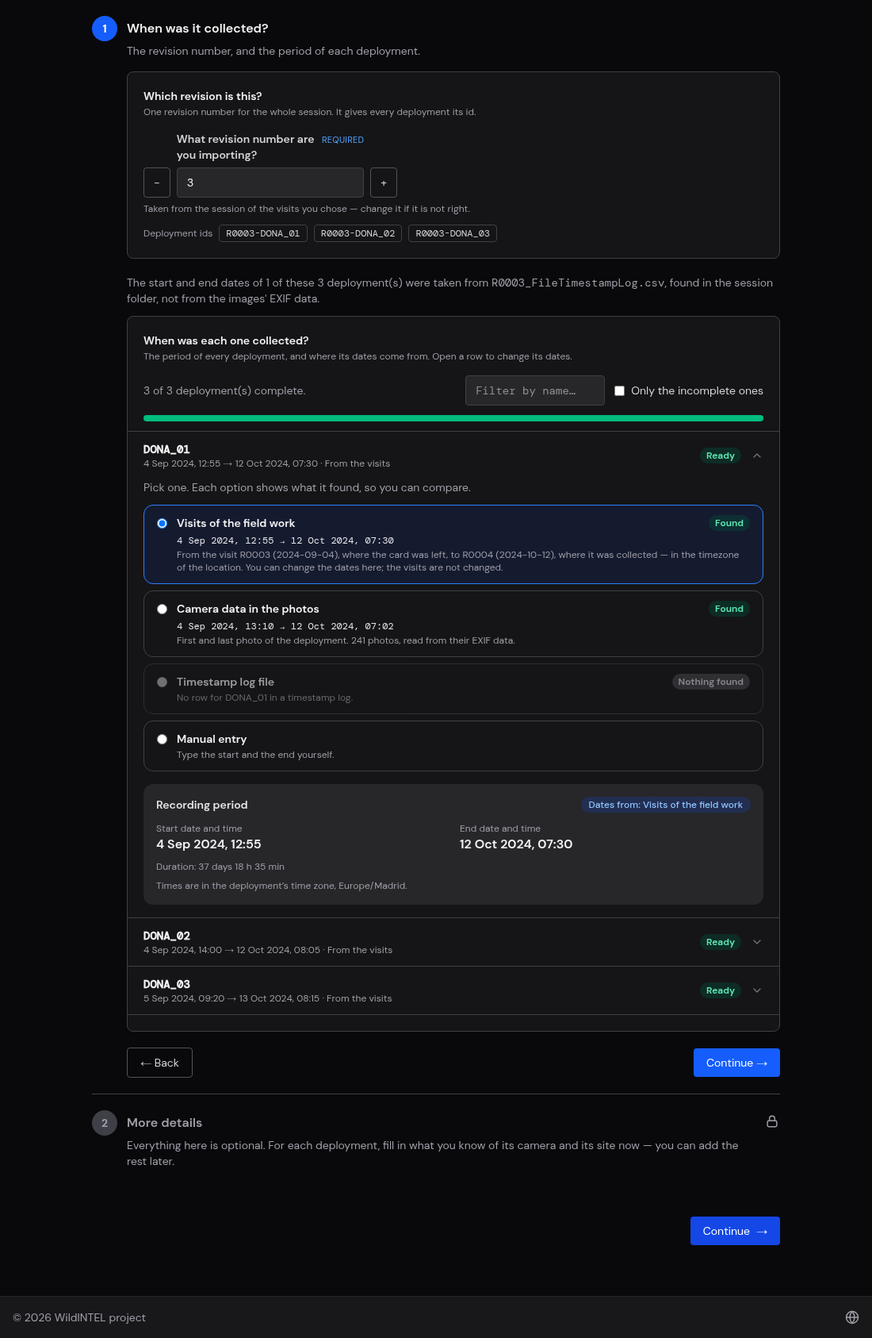
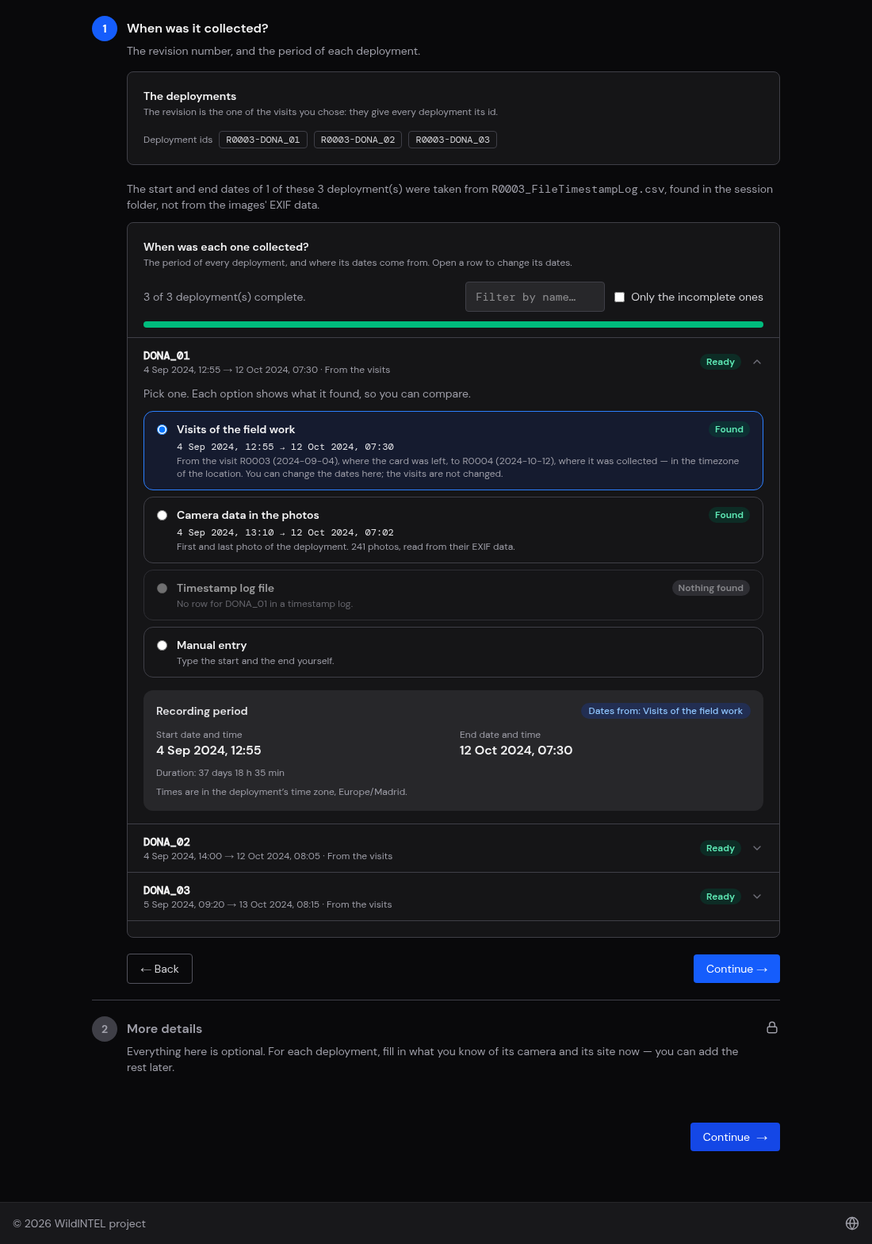
Import collection: redesigned around the visits — a revision, then one or several of its closed visits; one visit works as Import deployment (the folder is the deployment's), several as a collection; Import deployment is left as it was

diff --git a/frontend/src/pages/ImportSessionPage.tsx b/frontend/src/pages/ImportSessionPage.tsx
@@ -127,6 +127,8 @@ export default function ImportSessionPage({ onUpload, onOpenSettings, settingsOp
   const [closedVisits, setClosedVisits] = useState<ClosedVisit[] | null>(null)
   const [pickedVisits, setPickedVisits] = useState<Set<string>>(new Set())
   const [visitFilter, setVisitFilter] = useState('')
+  // The revision the visits are of, picked first: only its closed visits are offered. Ticking a visit locks the list to its revision as well (the others are disabled).
+  const [revisionPick, setRevisionPick] = useState<number | null>(null)
   // Where each deployment of visits has its camera, site and notes from, once picked: the visit's (the field sheet) before that.
   const [detailsPick, setDetailsPick] = useState<Record<string, 'visit' | 'previous' | 'manual'>>({})
   const [folderVisit, setFolderVisit] = useState<Record<string, string>>({})
@@ -203,6 +205,8 @@ export default function ImportSessionPage({ onUpload, onOpenSettings, settingsOp
   // With visits picked, the session is of them: each folder is a deployment of one, which tells where and when.
   const pickedList = (closedVisits ?? []).filter((c) => pickedVisits.has(visitKey(c)))
   const visitsMode = pickedList.length > 0
+  // One visit: the folder is the one of its deployment, with the images in it, as in Import deployment; several: a folder with one subfolder for each.
+  const singleVisit = pickedList.length === 1
   const visitOf = (name: string): ClosedVisit | undefined => pickedList.find((c) => visitKey(c) === folderVisit[name])
   const projectSdCards = sdCards.filter((c) => !c.research_project || c.research_project.toLowerCase() === projectId.toLowerCase())
   // The deployments' details are asked for once the research project is picked and the details sub-step is open.
@@ -275,6 +279,21 @@ export default function ImportSessionPage({ onUpload, onOpenSettings, settingsOp
     // eslint-disable-next-line react-hooks/exhaustive-deps
   }, [scan, pickedVisits, closedVisits])
 
+  // With one visit, the one folder is its deployment's, whatever it is called.
+  useEffect(() => {
+    if (!singleVisit || !scan || scan.deployments.length !== 1) return
+    const key = visitKey(pickedList[0])
+    setFolderVisit((current) => (current[scan.deployments[0].name] === key ? current : { [scan.deployments[0].name]: key }))
+    // eslint-disable-next-line react-hooks/exhaustive-deps
+  }, [singleVisit, scan, pickedVisits])
+  // A folder scanned for one visit is not the one scanned for several: it is scanned again when the number of visits goes from one to many or back.
+  const wasSingle = useRef(singleVisit)
+  useEffect(() => {
+    if (wasSingle.current !== singleVisit && scan) setScan(null)
+    wasSingle.current = singleVisit
+    // eslint-disable-next-line react-hooks/exhaustive-deps
+  }, [singleVisit])
+
   /** Links a folder to a visit (or none): what its details were is worked out again from it. */
   function linkFolder(name: string, key: string) {
     setFolderVisit((current) => {
@@ -289,6 +308,12 @@ export default function ImportSessionPage({ onUpload, onOpenSettings, settingsOp
 
   /** Ticks a visit of the session — all of one session, which is the revision: those of another are not offered then. */
   function toggleVisit(c: ClosedVisit) { tickVisits([c], !pickedVisits.has(visitKey(c))) }
+
+  /** Picks the revision the visits are of — or none, to see them all: the ticked visits are of another one, so they are let go. */
+  function pickRevision(revision: number | null) {
+    setRevisionPick(revision)
+    if (pickedVisits.size > 0) { setPickedVisits(new Set()); setDrafts({}); setRevisionFromVisits(false) }
+  }
 
   /** Ticks, or unticks, several visits at once. */
   function tickVisits(list: ClosedVisit[], ticked: boolean) {
@@ -401,7 +426,15 @@ export default function ImportSessionPage({ onUpload, onOpenSettings, settingsOp
   async function handleScan() {
     setScanning(true); setScanError(null); setScan(null)
     try {
-      const result = await api.scanSession(sessionDir)
+      let result: SessionScan
+      if (singleVisit) {
+        // the folder is the deployment's own: its images are counted, and it is the only deployment there is
+        const folder = await api.scanFolder(sessionDir)
+        const name = sessionDir.split(/[\\/]/).filter(Boolean).pop() ?? sessionDir
+        result = { deployments: [{ ...folder, name, path: sessionDir, start_date: null, end_date: null, from_timestamp_log: false, log_deployment_id: null }], loose_files: 0, warnings: [], timestamp_log: null }
+      } else {
+        result = await api.scanSession(sessionDir)
+      }
       setScan(result)
       const logged = result.timestamp_log?.revision
       if (logged) { setRevision(String(logged)); setRevisionFromLog(result.timestamp_log!.name) }
@@ -882,7 +915,7 @@ export default function ImportSessionPage({ onUpload, onOpenSettings, settingsOp
 
   return (
     <div className="mx-auto max-w-[900px] px-4 py-8">
-      <h2 className="text-xl font-bold mb-1 text-zinc-900 dark:text-zinc-100">Import session</h2>
+      <h2 className="text-xl font-bold mb-1 text-zinc-900 dark:text-zinc-100">Import collection</h2>
       <p className="text-sm text-zinc-500 dark:text-zinc-400 mb-6">
         Imports a folder of deployments — one subfolder each — into the local collections folder. The revision, the checks and the
         preprocessing are the same for all of them; the location, the dates and the camera are asked for each.
@@ -923,15 +956,29 @@ export default function ImportSessionPage({ onUpload, onOpenSettings, settingsOp
             {originError && <p className="text-sm text-red-600 dark:text-red-400 mt-2">{originError}</p>}
             {projectId && closedVisits !== null && closedVisits.length > 0 && (() => {
               // all of one revision: the visits whose cards were collected on the same trip
-              const session = pickedList[0] ? revisionOfVisit(pickedList[0]) : null
+              const session = pickedList[0] ? revisionOfVisit(pickedList[0]) : revisionPick
               const offered = (c: ClosedVisit) => !session || revisionOfVisit(c) === session
               const needle = visitFilter.trim().toLowerCase()
-              const shown = needle ? closedVisits.filter((c) => visitLabel(c).toLowerCase().includes(needle)) : closedVisits
+              const inRevision = revisionPick ? closedVisits.filter((c) => revisionOfVisit(c) === revisionPick) : closedVisits
+              const shown = needle ? inRevision.filter((c) => visitLabel(c).toLowerCase().includes(needle)) : inRevision
+              const revisions = [...new Set(closedVisits.map((c) => revisionOfVisit(c)).filter((r): r is number => r !== null))].sort((x, y) => y - x)
               // "Select all" takes the visits of one session — the ticked one's, or else the first shown
               const target = session ?? (shown[0] ? revisionOfVisit(shown[0]) : null)
               const enabled = shown.filter((c) => revisionOfVisit(c) === target)
               const allTicked = enabled.length > 0 && enabled.every((c) => pickedVisits.has(visitKey(c)))
               return (
+                <>
+                <FormCard title="Revision" description="A revision is one visit to every site. Pick the one these images are of: only its closed visits without a deployment are offered next.">
+                  <div className="flex flex-wrap gap-3" role="group" aria-label="Revision">
+                    {[{ id: null as number | null, label: 'All revisions', n: closedVisits.length }, ...revisions.map((r) => ({ id: r as number | null, label: `R${String(r).padStart(4, '0')}`, n: closedVisits.filter((c) => revisionOfVisit(c) === r).length }))].map((r) => (
+                      <button key={r.label} type="button" aria-pressed={(session ?? null) === r.id} onClick={() => pickRevision(r.id)}
+                              className={`rounded-xl border px-5 py-3 text-left transition-colors ${(session ?? null) === r.id ? 'border-blue-500 bg-blue-50 dark:bg-blue-950/40' : 'border-zinc-200 dark:border-zinc-700 hover:bg-zinc-50 dark:hover:bg-zinc-800/60'}`}>
+                        <span className="block font-mono text-lg font-semibold">{r.label}</span>
+                        <span className="block text-sm text-zinc-500 dark:text-zinc-400">{plural(r.n, 'visit to import', 'visits to import')}</span>
+                      </button>
+                    ))}
+                  </div>
+                </FormCard>
                 <FormCard title="Visits" description={`The visits to ${projectId} that left a camera and whose card has been collected, with no deployment yet. Tick the ones this session is of — all of one session, which is the revision. Each folder will be one of them: it says where and when it was taken.`}>
                   <input aria-label="Search the visits" className={`${inputClass} !w-72 mb-3`} placeholder="Search by location, card, date…" value={visitFilter} onChange={(e) => setVisitFilter(e.target.value)} />
                   <div className="max-h-[22rem] overflow-y-auto rounded-lg border border-zinc-200 dark:border-zinc-700">
@@ -962,6 +1009,7 @@ export default function ImportSessionPage({ onUpload, onOpenSettings, settingsOp
                     {pickedList.length === 0 ? 'No visit ticked yet.' : `${plural(pickedList.length, 'visit', 'visits')} of the session ${session}.`}
                   </p>
                 </FormCard>
+                </>
               )
             })()}
             <div className="flex justify-between items-center mt-4">
@@ -994,8 +1042,8 @@ export default function ImportSessionPage({ onUpload, onOpenSettings, settingsOp
             Select the session&rsquo;s folder, choose which checks to run over the images of its deployments, and validate them before they go any further.
           </p>
           <div className="border-t border-zinc-200 dark:border-zinc-700" />
-          <WizardStep n={1} title="Session folder" status={imagesStatus(1)} canEdit={!validating} onEdit={() => setImagesOpen(1)}
-                      description="A folder with one subfolder per deployment, on this computer."
+          <WizardStep n={1} title={singleVisit ? 'Folder with the images' : 'Session folder'} status={imagesStatus(1)} canEdit={!validating} onEdit={() => setImagesOpen(1)}
+                      description={singleVisit ? 'The folder with the images of the visit\u2019s deployment, on this computer.' : 'A folder with one subfolder per deployment, on this computer.'}
                       summary={scan && <>{sessionName}<br />{plural(candidates.length, 'deployment', 'deployments')} · {plural(candidates.reduce((n, d) => n + d.image_count, 0), 'image', 'images')}</>}>
             <Notice kind="warning" className="mb-4">Copy the images from the cameras&rsquo; memory cards to a local folder first — don&rsquo;t point this at a card itself.</Notice>
             <label className={labelClass} htmlFor="session-dir">Folder path</label>
@@ -1018,6 +1066,19 @@ export default function ImportSessionPage({ onUpload, onOpenSettings, settingsOp
                     Timestamp log found: <span className="font-mono">{scan.timestamp_log.name}</span>. Its dates are imported.
                   </Notice>
                 )}
+                {singleVisit ? (
+                  <div className="rounded-xl border border-zinc-200 dark:border-zinc-700 px-5 py-4 text-sm space-y-3">
+                    <p role="status" className="text-zinc-600 dark:text-zinc-300"><strong>{plural(scan.deployments[0].image_count, 'image', 'images')}</strong> found in <span className="font-mono">{scan.deployments[0].name}</span>, for the visit <span className="font-mono">{visitLabel(pickedList[0])}</span>.</p>
+                    <div className="max-w-sm">
+                      <label className={labelClass} htmlFor="single-sd">SD card of the images</label>
+                      <select id="single-sd" aria-label={`SD card of ${scan.deployments[0].name}`} className={inputClass} value={folderSd[scan.deployments[0].name] ?? ''} onChange={(e) => setFolderSd((cur) => ({ ...cur, [scan.deployments[0].name]: e.target.value }))}>
+                        <option value="">None said</option>
+                        {projectSdCards.map((c) => <option key={c.label} value={c.label}>{[c.label, [c.brand, c.capacity].filter(Boolean).join(' ')].filter(Boolean).join(' — ')}</option>)}
+                      </select>
+                    </div>
+                  </div>
+                ) : (
+                <>
                 <p className="text-sm text-zinc-500 dark:text-zinc-400 mb-2">{scan.deployments.length} subfolder(s) — tick the ones to import.</p>
                 {visitsMode && (() => {
                   const ticked = scan.deployments.filter((d) => included.has(d.name))
@@ -1108,6 +1169,8 @@ export default function ImportSessionPage({ onUpload, onOpenSettings, settingsOp
                     ? <Notice kind="success" role="status" className="mt-3">Every folder has its visit: {plural(candidates.length, 'deployment', 'deployments')} of the collection R{String(revisionOfVisit(pickedList[0]) ?? 0).padStart(4, '0')}.</Notice>
                     : <Notice kind="warning" role="alert" className="mt-3">{without.length === 1 ? 'A folder has' : `${without.length} folders have`} no visit yet — pick it above: <span className="font-mono">{without.slice(0, 5).map((d) => d.name).join(', ')}{without.length > 5 ? ', …' : ''}</span>. Or untick {without.length === 1 ? 'it' : 'them'} if {without.length === 1 ? 'it is' : 'they are'} not of this session.</Notice>
                 })()}
+                </>
+                )}
                 {scan.timestamp_log && (scan.timestamp_log.unmatched?.length ?? 0) > 0 && (
                   <Notice kind="warning" role="alert" className="mt-3">
                     {scan.timestamp_log.unmatched!.length === 1 ? 'An entry of the timestamp log has' : `${scan.timestamp_log.unmatched!.length} entries of the timestamp log have`} no folder:{' '}

diff --git a/frontend/src/pages/ImportSessionPage.test.tsx b/frontend/src/pages/ImportSessionPage.test.tsx
@@ -10,7 +10,7 @@ import { APP_SETTINGS } from '../test/fixtures'
 
 vi.mock('../api', () => ({
   api: {
-    getSettings: vi.fn(), exiftoolStatus: vi.fn(), browseFolder: vi.fn(), scanSession: vi.fn(), guessDetails: vi.fn(), validateImages: vi.fn(),
+    getSettings: vi.fn(), exiftoolStatus: vi.fn(), browseFolder: vi.fn(), scanSession: vi.fn(), scanFolder: vi.fn(), guessDetails: vi.fn(), validateImages: vi.fn(),
     listResearchProjects: vi.fn(), saveResearchProject: vi.fn(), listLocalLocations: vi.fn(), saveLocalLocation: vi.fn(),
     writeTimestampLog: vi.fn(), validateDeployment: vi.fn(), previousDeployments: vi.fn(), existingDeployments: vi.fn(), collectionPath: vi.fn(), importLocal: vi.fn(), openFolder: vi.fn(),
     trapperGetConfig: vi.fn(), trapperTestConnection: vi.fn(), trapperResearchProjects: vi.fn(), nextRevision: vi.fn(), epicollectEntriesBatch: vi.fn(),
@@ -1061,6 +1061,45 @@ describe('an import session of visits', () => {
     await userEvent.click(screen.getByRole('checkbox', { name: 'Select all the visits offered' }))
     expect(visit(0)).not.toBeChecked()
     expect(visit(1)).not.toBeChecked()
+  })
+
+  it('has a square for each revision with visits to import, and shows only the visits of the one picked', async () => {
+    render(<ImportSessionPage {...pageProps} />)
+    await pickProject()
+    await screen.findAllByRole('checkbox', { name: /collected on/ })
+    const squares = screen.getByRole('group', { name: 'Revision' })
+
+    expect(within(squares).getAllByRole('button').map((b) => b.textContent)).toEqual(['All revisions3 visits to import', 'R00022 visits to import', 'R00011 visit to import'])
+    await userEvent.click(within(squares).getByRole('button', { name: /^R0002/ }))
+    expect(within(squares).getByRole('button', { name: /^R0002/ })).toHaveAttribute('aria-pressed', 'true')
+    expect(screen.getAllByRole('checkbox', { name: /collected on/ })).toHaveLength(2) // only the visits of R0002
+    await userEvent.click(visit(0))
+    await userEvent.click(within(squares).getByRole('button', { name: /^R0001/ })) // another revision: what was ticked is let go
+    expect(screen.getAllByRole('checkbox', { name: /collected on/ })).toHaveLength(1)
+    expect(screen.getByRole('checkbox', { name: /collected on/ })).not.toBeChecked()
+    await userEvent.click(within(squares).getByRole('button', { name: /^All revisions/ }))
+    expect(screen.getAllByRole('checkbox', { name: /collected on/ })).toHaveLength(3)
+  })
+
+  it('with one visit works as Import deployment: the folder is the deployment\'s, with the images in it', async () => {
+    mockedApi.scanFolder.mockResolvedValue({ file_count: 24, image_count: 24, warnings: [] })
+    render(<ImportSessionPage {...pageProps} />)
+    await pickProject()
+    await userEvent.click(await screen.findByRole('checkbox', { name: /DONA_01 · R0002 · Revision · card A13/ }))
+    await userEvent.click(screen.getByRole('button', { name: /Continue to the images/ }))
+
+    expect(await screen.findByText('Folder with the images')).toBeInTheDocument()
+    await userEvent.click(await screen.findByRole('button', { name: 'Browse…' }))
+    await screen.findByDisplayValue('/s')
+    await userEvent.click(screen.getByRole('button', { name: 'Scan' }))
+
+    // the images of the folder are counted, as Import deployment does — not a folder with subfolders
+    expect(await screen.findByText(/24 images/)).toBeInTheDocument()
+    expect(mockedApi.scanFolder).toHaveBeenCalledWith('/s')
+    expect(mockedApi.scanSession).not.toHaveBeenCalled()
+    expect(screen.queryByText(/subfolder\(s\)/)).not.toBeInTheDocument()
+    await userEvent.selectOptions(screen.getByLabelText('SD card of s'), 'B2')
+    expect(screen.getByRole('button', { name: 'Continue to the checks' })).toBeEnabled() // the folder is linked to the one visit
   })
 
   it('offers only the visits of one session once one is ticked: the session is the revision', async () => {

diff --git a/frontend/src/pages/MenuPage.test.tsx b/frontend/src/pages/MenuPage.test.tsx
@@ -4,12 +4,12 @@ import userEvent from '@testing-library/user-event'
 import MenuPage from './MenuPage'
 
 describe('MenuPage', () => {
-  it('offers Manage deployments and Import session', async () => {
+  it('offers Manage deployments and Import collection', async () => {
     const onChoose = vi.fn()
     render(<MenuPage onChoose={onChoose} />)
 
     const deploymentButton = screen.getByRole('button', { name: /manage deployments/i })
-    const sessionButton = screen.getByRole('button', { name: /import session/i })
+    const sessionButton = screen.getByRole('button', { name: /import collection/i })
 
     expect(deploymentButton).toBeEnabled()
     expect(sessionButton).toBeEnabled()
@@ -40,11 +40,11 @@ describe('MenuPage', () => {
     expect(onChoose).toHaveBeenCalledWith('upload')
   })
 
-  it('offers the tasks in the order manage visits, manage deployments, import session, upload deployment', () => {
+  it('offers the tasks in the order manage visits, manage deployments, import collection, upload deployment', () => {
     render(<MenuPage onChoose={vi.fn()} />)
 
-    const titles = screen.getAllByRole('button').map((b) => b.textContent ?? '').filter((t) => /Manage visits|Manage deployments|Import session|Upload deployment/.test(t))
-    expect(titles.map((t) => t.match(/Manage visits|Manage deployments|Import session|Upload deployment/)![0])).toEqual(['Manage visits', 'Manage deployments', 'Import session', 'Upload deployment'])
+    const titles = screen.getAllByRole('button').map((b) => b.textContent ?? '').filter((t) => /Manage visits|Manage deployments|Import collection|Upload deployment/.test(t))
+    expect(titles.map((t) => t.match(/Manage visits|Manage deployments|Import collection|Upload deployment/)![0])).toEqual(['Manage visits', 'Manage deployments', 'Import collection', 'Upload deployment'])
     expect(screen.queryByRole('button', { name: /upload session to trapper/i })).not.toBeInTheDocument()
   })
 

diff --git a/frontend/src/pages/MenuPage.tsx b/frontend/src/pages/MenuPage.tsx
@@ -13,7 +13,7 @@ const ICONS: Record<string, ReactNode> = {
 const TASKS: { value: Task; icon: string; title: string; description: string }[] = [
   { value: 'visits', icon: 'visits', title: 'Manage visits', description: 'Register the visits to the camera traps — who went, when, to which site and what was done — or look at the visit book. The deployments are worked out from the visits.' },
   { value: 'deployment', icon: 'deployment', title: 'Manage deployments', description: 'Import a folder of camera-trap images as a deployment, or see the status of the deployments: which are closed, which still have the camera out and which are on Trapper.' },
-  { value: 'session', icon: 'session', title: 'Import session', description: 'Several deployments from one folder, with one subfolder each. The visit, the checks and the image preparation are shared; the location and dates are asked for each.' },
+  { value: 'session', icon: 'session', title: 'Import collection', description: 'Pick a revision and the closed visits whose images you have: one visit is a deployment (a folder of images), several are a collection (a folder with one subfolder each). The checks and the image preparation are shared.' },
   { value: 'upload', icon: 'upload', title: 'Upload deployment to Trapper', description: 'Pick a collection kept on this computer and send a deployment to Trapper. Its location and the deployment are created there if they are missing.' },
 ]
 

diff --git a/frontend/src/pages/ResumeSessionsPage.tsx b/frontend/src/pages/ResumeSessionsPage.tsx
@@ -13,7 +13,7 @@ interface Props {
   onSkip: () => void
 }
 
-const TASK_TITLES: Record<SessionSummary['task'], string> = { deployment: 'Import deployment', upload: 'Upload deployment to Trapper', session: 'Import session',
+const TASK_TITLES: Record<SessionSummary['task'], string> = { deployment: 'Import deployment', upload: 'Upload deployment to Trapper', session: 'Import collection',
   'upload-session': 'Upload session to Trapper', utils: 'Utilities', sync: 'Sync local collections', repair: 'Repair local deployments', visits: 'Register visits',
 }
 

diff --git a/tools/screenshots/capture.py b/tools/screenshots/capture.py
@@ -319,7 +319,7 @@ def reports(page: Page) -> None:
 
 def to_session_folders(page: Page) -> None:
     """The session of the visits to DONA: ticked in the origin, then the folder with a subfolder each, linked to its visit by its name."""
-    open_task(page, "Import session")
+    open_task(page, "Import collection")
     expect(heading(page, "Origin")).to_be_visible()
     choose(page, "origin-research-project", "DONA")
     page.get_by_role("checkbox", name="Select all the visits offered").check()

diff --git a/docs/user-manual-web.md b/docs/user-manual-web.md
@@ -15,7 +15,7 @@ first. Part of what the web app does can also be done from a terminal: see the
 4. [Unfinished runs](#4-unfinished-runs)
 5. [Manage visits](#5-manage-visits)
 6. [Manage deployments](#6-manage-deployments)
-7. [Import a session](#7-import-a-session)
+7. [Import a collection](#7-import-a-collection)
 8. [Upload a deployment to Trapper](#8-upload-a-deployment-to-trapper)
 9. [Utils: sync, repair and fix dates](#9-utils)
 10. [Troubleshooting](#10-troubleshooting)
@@ -178,13 +178,13 @@ Once it is configured, the menu is where you choose what you want to do:
 |---|---|
 | 📋 **Manage visits** | **Register visits** to the camera traps — who went, when, to which site and what was done — or **show the visit book**. The deployments are worked out from the visits. |
 | 📷 **Manage deployments** | **Import deployment** — check one folder of images and organize it in the collections folder — or **show the status of the deployments**. |
-| 🗂 **Import session** | The same for a folder holding several deployments, one subfolder each. |
+| 🗂 **Import collection** | Pick a revision and the closed visits whose images you have: **one visit** is a deployment (a folder of images, as in Import deployment), **several** are a collection (a folder with one subfolder each). |
 | ☁ **Upload deployment to Trapper** | Send deployments already kept locally to Trapper. |
 | 🧰 **Utils** | *Check and fix dates and times* compares the dates of a folder's images with the period of the visit, when the camera clock went wrong, and shifts or removes the ones that cannot be trusted (every fix is written down). Maintenance of the local collections: *Sync local collections* brings the collections folder up to date with what Trapper already has, and *Repair local deployments* checks which deployments are still valid and writes the metadata files of the others again from their folders. |
 
 ![The task menu](img/screenshots/menu.png)
 
-The usual order is **Register visits** first, then **Import** (or **Import session**) — which take the location, the camera and the dates from the visits — and then **Upload**. *Sync* is for when
+The usual order is **Register visits** first, then **Import** (or **Import collection**) — which take the location, the camera and the dates from the visits — and then **Upload**. *Sync* is for when
 Trapper already holds deployments that this computer's collections folder doesn't know about (**Utils › Sync**).
 
 The title in the top bar takes you back to the welcome screen at any time; **? Help** opens this
@@ -291,7 +291,7 @@ and *Not on Trapper yet* (closed, with the images stored, ready to upload) — a
 
 Press **📷 Manage deployments**, then **Import deployment**. This option is meant to import the set of images that come from a **single camera**: one
 folder, one deployment. For a folder with the images of several cameras, one subfolder each, use
-[**Import session**](#7-import-a-session).
+[**Import collection**](#7-import-a-collection).
 
 It is a wizard of five stages — the bar at the top shows where you are, and a
 stage can have steps of its own, which open one after the other. Each stage is **done** (a tick and a
@@ -413,7 +413,7 @@ Each option says **Found** — with the start and end it found — or **Nothing 
 source that turns up later replaces the one taken — until you pick one yourself.
 
 If the deployment's collection has a `<COLLECTION>_FileTimestampLog.csv` (the file wildintel-tools asks for), going on from *More details*
-**adds the deployment's row to that file**. A log that is already there is used for the dates in an [*Import session*](#7-import-a-session).
+**adds the deployment's row to that file**. A log that is already there is used for the dates in an [*Import collection*](#7-import-a-collection).
 
 **2. More details.**
 
@@ -537,15 +537,18 @@ The **seal** protects against changes by mistake: if an image or `deployment.jso
 after the import, the seal no longer matches, and the app can tell. It is not a signature —
 whoever edits the files on purpose could seal them again.
 
-## 7. Import a session
+## 7. Import a collection
 
-Press **🗂 Import session**. A **session** is a folder with **one subfolder per deployment** — the
+Press **🗂 Import collection**. It works from the **visits**: first the **research project**, then a **revision** — a square for each one (*All revisions*, *R0003*…) with how many closed visits without a deployment it has — and then you tick the **visits** of that revision whose images you have.
+
+- **One visit:** it works as [Import deployment](#import-a-deployment): the folder is the deployment's, with its images in it (no subfolders), and it is linked to the one visit. Only its SD card is asked beside it.
+- **Several visits:** the folder is a **collection**: a folder with **one subfolder per visit**, as follows. A **collection** is a folder with **one subfolder per deployment** — the
 usual way a field trip's images come home. The revision, the checks and the preprocessing are the
 same for all; the location, dates and camera are asked for each deployment.
 
 The stages are those of [Import a deployment](#import-a-deployment), with the differences below.
 
-![Import session — the folders and their visits](img/screenshots/session-folders.png)
+![Import collection — the folders and their visits](img/screenshots/session-folders.png)
 
 1. **Origin** — the **research project** for the whole session and, if it has closed visits (see [Register visits](#5-manage-visits)), the
    **Visits** to tick: the ones this session is of — **all of one session**, which is the revision (once one is ticked, the visits of other sessions are

diff --git a/CHANGELOG.md b/CHANGELOG.md
@@ -22,6 +22,7 @@ adheres to [Semantic Versioning](https://semver.org/spec/v2.0.0.html).
 - **Manage visits** is the task of the menu (it was *Register visits*): it offers **Register visits** and **Show the visit book** — the visits kept to a research project (newest first, with a filter and the deployment each closed) and, in a second tab, the
   deployments they say (closed, and the ones whose camera is still out).
 - **The visit book** is of the default research project (Settings › General), named at the top with a link to the settings; it is paged (ten rows), can be sorted by any column, has a square for each revision (all of them, or one, with how many of its visits are done) and five status squares (all, not done, open, closed, no deployment yet) that count and filter the rows with a bar of how many visits are done, and has a row — *Not done* — for each location (not retired) that has no visit in a session the visits have. It (`/api/visits/book`) lists a visit as *Session · Where · When · Status (open or closed) · Actions · Images stored · On Trapper* (a tick when the deployment was uploaded from here or synced from Trapper) (a tick, with a link to the deployment's details, once it is created and its images imported, or **Create deployment** on a closed visit that has none), then its actions, camera, card, photos and who went; **View** (the eye button of the entities) shows everything the visit says; **Create deployment** opens Import deployment with that visit chosen.
+- **Import collection** (it was *Import session*) is redesigned around the visits: the research project, a **revision** (a square for each one with its closed visits without a deployment) and the visits ticked; **one visit** works as Import deployment — the folder is the deployment's, with its images in it, scanned like Import deployment does — and **several** as a collection, a folder with one subfolder each. Import deployment is left as it was.
 - **Manage deployments** is the task of the menu (it was *Import deployment*): it offers **Import deployment** and **Show deployments status** — the deployments of the default research project as a book (it was a tab of the visit book, which is of the visits only), where the tick of the images stored of a visit links to the deployment. The status is a book as the Visits one: a square for each revision, the status squares of the one picked (the deployments, closed with their images stored, camera still out, not on Trapper yet) and a table — deployment, where, status, period, card and photos, on Trapper —; `/api/visits/deployments` says for each whether its images are stored (`images_stored`) and whether it is on Trapper.
 - **The cameras and the SD cards are kept in the folder of their research project** (`<research project>/cameras.json` and `sd_cards.json`, beside `locations.json` and `visits.json`), so they travel with its collections; only the trappers stay in
   `settings.toml`. `GET /api/settings` gives the ones of every research project and `PUT /api/settings` saves each project's list in its folder — a camera or a card needs its research project (`422` otherwise). Those kept in `settings.toml`
